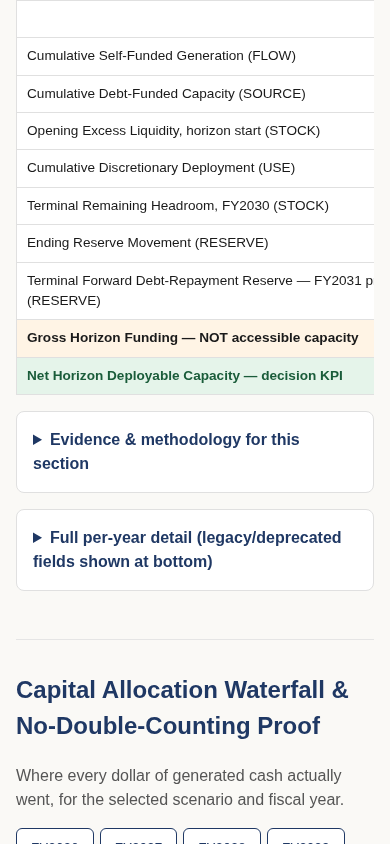
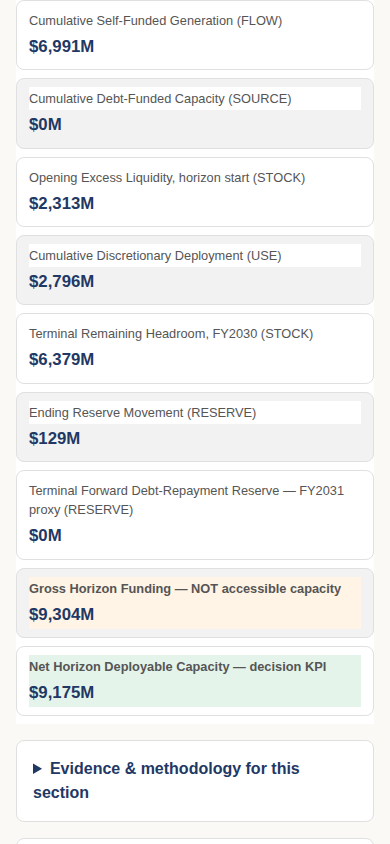
UI release patch: fix mobile horizon-table visibility, correct provenance claims
1. deliverables/web_cockpit/css/style.css: below 480px, the horizon
   reconciliation table's two-column layout no longer fit label and value
   side by side, and the value column scrolled out of view within its
   wrapper -- invisible even though body-level overflow was zero. Below
   that width the table now stacks each row into a label-then-value card
   (display:block overrides), so both are always simultaneously on
   screen with zero horizontal scrolling, confirmed at 390px and 360px.

2. scripts/verify_web_cockpit.py: added per-cell bounding-box checks at
   both mobile viewports -- every #table-capacity-horizon cell (label AND
   value) must lie fully within the viewport, and the gross/net values
   specifically must be present on screen and match Python. Body-level
   no-overflow alone did not catch the bug above; this does. Also fixed
   a missing "M" suffix in the new checks' expected-value strings, and
   added allow_reuse_address to the local test server to avoid a
   TIME_WAIT bind flake.

3. Regenerated screenshot 10 and screenshots/README.md via
   scripts/build_web_cockpit_screenshots.py; visually confirmed gross
   ($9,304M) and net ($9,175M) are both legible in the new stacked-card
   layout. Corrected the prior README's purpose text, which claimed
   values were "never clipped" while they were in fact invisible.

4. Corrected screenshot provenance: the README now cites two distinct
[…]

diff --git a/deliverables/web_cockpit/css/style.css b/deliverables/web_cockpit/css/style.css
@@ -350,6 +350,34 @@ main { max-width: var(--max-width); margin: 0 auto; padding: 0 var(--space-3); }
 }
 .data-table:not(.reconciliation-table) th, .data-table:not(.reconciliation-table) td { white-space: nowrap; }
 
+/* Below ~480px the two-column layout above no longer fits label + value
+   side by side without horizontal scroll, and a scrolled-away value column
+   is exactly the failure this table exists to prevent (docs/ui_ux_audit.md
+   §2). Below that width, drop the min-width/table-layout entirely and
+   stack each row into a label-then-value card instead -- both are then
+   always on screen simultaneously, with zero horizontal scrolling. */
+@media (max-width: 480px) {
+  .reconciliation-table { table-layout: auto; min-width: 0; width: 100%; }
+  .reconciliation-table thead { display: none; }
+  .reconciliation-table tbody, .reconciliation-table tr, .reconciliation-table td {
+    display: block; width: 100%;
+  }
+  .reconciliation-table tr {
+    border: 1px solid #e0e0e0; border-radius: var(--radius);
+    padding: 8px 12px; margin-bottom: var(--space-2); background: var(--white);
+  }
+  .reconciliation-table td {
+    border: none; padding: 2px 0; text-align: left; white-space: normal;
+  }
+  .reconciliation-table td:first-child { font-size: 0.8rem; color: #555; }
+  .reconciliation-table td:last-child {
+    width: 100%; font-size: 1.05rem; font-weight: 700; color: var(--navy);
+  }
+  .reconciliation-table td.reclassified, .reconciliation-table td.reclassified-net {
+    display: block; width: 100%;
+  }
+}
+
 /* ============= PROOF BANNER ============= */
 .proof-banner {
   margin-top: var(--space-3);

diff --git a/scripts/build_web_cockpit_screenshots.py b/scripts/build_web_cockpit_screenshots.py
@@ -55,6 +55,19 @@ def git_commit_hash() -> str:
         return "unknown"
 
 
+def git_last_commit_touching(path: str) -> str:
+    """The commit that last changed `path` in the current history -- used
+    to identify the financial-baseline commit (the last one to touch
+    model_data.json), independent of how many purely presentational
+    commits have landed since."""
+    try:
+        return subprocess.check_output(
+            ["git", "log", "-1", "--format=%H", "--", path], cwd=REPO_ROOT, text=True
+        ).strip() or "unknown"
+    except Exception:
+        return "unknown"
+
+
 def goto(page, port):
     page.goto(f"http://127.0.0.1:{port}/index.html", wait_until="networkidle")
     page.evaluate("document.documentElement.style.scrollBehavior='auto';")
@@ -171,14 +184,15 @@ def build():
         scroll_to(page, "#table-capacity-horizon")
         path = SCREENSHOTS_DIR / "10_mobile_capacity_view.png"
         page.screenshot(path=str(path))
-        manifest.append((path.name, "390x844 mobile", "Base", "Mobile Investment Capacity section: horizon reconciliation table remains fully readable, values never clipped."))
+        manifest.append((path.name, "390x844 mobile", "Base", "Mobile Investment Capacity section: horizon reconciliation table stacks label-then-value per row below 480px, so both the label and its dollar value are simultaneously visible with zero horizontal scrolling."))
         page.close()
 
         browser.close()
 
     httpd.shutdown()
 
-    commit = git_commit_hash()
+    ui_source_commit = git_commit_hash()
+    financial_baseline_commit = git_last_commit_touching("deliverables/web_cockpit/data/model_data.json")
     verified_date = datetime.now(timezone.utc).strftime("%Y-%m-%d")
     readme_lines = [
         "# Web Cockpit Screenshot Package",
@@ -190,7 +204,16 @@ def build():
         "remain fully recoverable from git history",
         "(`git log -- deliverables/web_cockpit/screenshots/`).",
         "",
-        f"Verified: {verified_date} (UTC), against commit `{commit}`.",
+        f"Verified: {verified_date} (UTC).",
+        f"Financial baseline commit (last commit to touch `data/model_data.json` -- the numbers shown are unchanged since this commit): `{financial_baseline_commit}`.",
+        f"UI build source commit (the presentation-layer code rendered when these screenshots were captured): `{ui_source_commit}`.",
+        "",
+        "Note on self-reference: this README ships inside a later commit than the",
+        "one recorded above as the \"UI build source\" -- a file cannot cite the",
+        "hash of the commit that first contains it, since that hash does not",
+        "exist yet at generation time. Run `git log -1 --format=%H -- "
+        "deliverables/web_cockpit/screenshots/README.md` for the exact commit",
+        "this file itself ships in.",
         "",
         "| # | Filename | Viewport | Scenario | Purpose |",
         "|---|---|---|---|---|",
@@ -199,10 +222,11 @@ def build():
         readme_lines.append(f"| {i} | `{fname}` | {viewport} | {scenario} | {purpose} |")
     readme_lines.append("")
     readme_lines.append(
-        "Any screenshot dated or hashed earlier than the commit above (including "
-        "any prior version of this package) is stale and must not be treated as "
-        "representative of the current build -- see `docs/ui_ux_audit.md` §1 for "
-        "a documented example of exactly this failure mode."
+        "Any prior version of this package (including any screenshot dated or "
+        "hashed earlier than the UI build source commit above) is stale and "
+        "must not be treated as representative of the current build -- see "
+        "`docs/ui_ux_audit.md` §1 for a documented example of exactly this "
+        "failure mode."
     )
     (SCREENSHOTS_DIR / "README.md").write_text("\n".join(readme_lines) + "\n")
     print(f"Wrote {len(manifest)} screenshots + README.md to {SCREENSHOTS_DIR}")

diff --git a/scripts/verify_web_cockpit.py b/scripts/verify_web_cockpit.py
@@ -68,6 +68,7 @@ class QuietHandler(http.server.SimpleHTTPRequestHandler):
 
 def serve():
     handler = lambda *a, **kw: QuietHandler(*a, directory=str(COCKPIT_DIR), **kw)
+    socketserver.TCPServer.allow_reuse_address = True
     httpd = socketserver.TCPServer(("127.0.0.1", PORT), handler)
     thread = threading.Thread(target=httpd.serve_forever, daemon=True)
     thread.start()
@@ -330,6 +331,48 @@ with sync_playwright() as p:
         page.goto(f"http://127.0.0.1:{PORT}/index.html", wait_until="networkidle")
         body_width = page.evaluate("document.body.scrollWidth")
         check(body_width <= w + 1, f"No horizontal overflow at {name} (body scrollWidth={body_width}, viewport={w})")
+        page.close()
+    browser.close()
+
+    # --- Mobile: every #table-capacity-horizon VALUE cell is actually on
+    # screen (inside the visible table wrapper), not just "body doesn't
+    # overflow" -- a table can be scroll-contained and still hide its value
+    # column off to the right within that container, which is exactly the
+    # bug a prior release shipped (see docs/ui_ux_audit.md). This checks
+    # each cell's own bounding box against the viewport, so a value sitting
+    # outside the visible area is caught even when nothing overflows the
+    # page as a whole.
+    browser = p.chromium.launch(executable_path=CHROMIUM_PATH)
+    for name, w, h in [("390x844 mobile", 390, 844), ("360x800 mobile", 360, 800)]:
+        page = browser.new_page(viewport={"width": w, "height": h})
+        page.goto(f"http://127.0.0.1:{PORT}/index.html", wait_until="networkidle")
+        page.evaluate("document.documentElement.style.scrollBehavior='auto'; document.getElementById('table-capacity-horizon').scrollIntoView();")
+        page.wait_for_timeout(200)
+
+        wrapper_box = page.eval_on_selector("#table-capacity-horizon", "el => { const r = el.closest('.table-wrap').getBoundingClientRect(); return {left:r.left, right:r.right, top:r.top, bottom:r.bottom}; }")
+        cell_boxes = page.eval_on_selector_all(
+            "#table-capacity-horizon tbody td",
+            "els => els.map(el => { const r = el.getBoundingClientRect(); return {text: el.textContent.trim(), left:r.left, right:r.right, width:r.width, height:r.height}; })",
+        )
+        check(len(cell_boxes) > 0, f"{name}: horizon table has value cells to check")
+        offscreen = [
+            c for c in cell_boxes
+            if c["width"] <= 0 or c["height"] <= 0 or c["left"] < -1 or c["right"] > w + 1
+        ]
+        check(
+            len(offscreen) == 0,
+            f"{name}: every horizon-table cell (label AND value) is fully within the {w}px viewport, none clipped or off-screen "
+            f"(found {len(offscreen)} problem cells: {[c['text'][:40] for c in offscreen]})",
+        )
+        # Specifically confirm the gross and net VALUE cells (not just labels) are visible, on screen, and match Python.
+        value_cells = [c for c in cell_boxes if c["text"].startswith("$")]
+        check(len(value_cells) >= 9, f"{name}: at least 9 dollar-value cells are visible in the horizon table (found {len(value_cells)})")
+        base_hz = data["scenarios"]["base"]["capacity_horizon_summary"]
+        gross_text = f"${round(base_hz['gross_horizon_funding_before_reserve_adjustments']):,}M"
+        net_text = f"${round(base_hz['net_horizon_deployable_capacity']):,}M"
+        value_texts = [c["text"] for c in value_cells]
+        check(gross_text in value_texts, f"{name}: gross value ({gross_text}) is on screen as its own visible cell, matching Python")
+        check(net_text in value_texts, f"{name}: net value ({net_text}) is on screen as its own visible cell, matching Python")
         page.close()
     browser.close()
 

diff --git a/deliverables/web_cockpit/screenshots/README.md b/deliverables/web_cockpit/screenshots/README.md
@@ -7,7 +7,15 @@ stale screenshot never lingers alongside a fresh one. Prior versions
 remain fully recoverable from git history
 (`git log -- deliverables/web_cockpit/screenshots/`).
 
-Verified: 2026-09-17 (UTC), against commit `27bab65c098418eb5e9772fd26e8f86a1b1033e9`.
+Verified: 2026-09-17 (UTC).
+Financial baseline commit (last commit to touch `data/model_data.json` -- the numbers shown are unchanged since this commit): `fff9b9c5cedb8ec485d1720b74d896adae65089d`.
+UI build source commit (the presentation-layer code rendered when these screenshots were captured): `1ce4a53fe65c7d3f2e45af4087a286f62548cd1d`.
+
+Note on self-reference: this README ships inside a later commit than the
+one recorded above as the "UI build source" -- a file cannot cite the
+hash of the commit that first contains it, since that hash does not
+exist yet at generation time. Run `git log -1 --format=%H -- deliverables/web_cockpit/screenshots/README.md` for the exact commit
+this file itself ships in.
 
 | # | Filename | Viewport | Scenario | Purpose |
 |---|---|---|---|---|
@@ -20,6 +28,6 @@ Verified: 2026-09-17 (UTC), against commit `27bab65c098418eb5e9772fd26e8f86a1b10
 | 7 | `07_whatif_lab.png` | 1440x1000 desktop | Base | Illustrative What-If Lab: dashed-border treatment, baseline-vs-output side by side, changed-input indicator. |
 | 8 | `08_audit_evidence_panel.png` | 1440x1000 desktop | Base | Audit & Methodology section with the validation/correction-timeline table and an expanded evidence panel. |
 | 9 | `09_mobile_executive_view.png` | 390x844 mobile | Base | Mobile hero and top of the Overview section -- zero horizontal overflow. |
-| 10 | `10_mobile_capacity_view.png` | 390x844 mobile | Base | Mobile Investment Capacity section: horizon reconciliation table remains fully readable, values never clipped. |
+| 10 | `10_mobile_capacity_view.png` | 390x844 mobile | Base | Mobile Investment Capacity section: horizon reconciliation table stacks label-then-value per row below 480px, so both the label and its dollar value are simultaneously visible with zero horizontal scrolling. |
 
-Any screenshot dated or hashed earlier than the commit above (including any prior version of this package) is stale and must not be treated as representative of the current build -- see `docs/ui_ux_audit.md` §1 for a documented example of exactly this failure mode.
+Any prior version of this package (including any screenshot dated or hashed earlier than the UI build source commit above) is stale and must not be treated as representative of the current build -- see `docs/ui_ux_audit.md` §1 for a documented example of exactly this failure mode.
